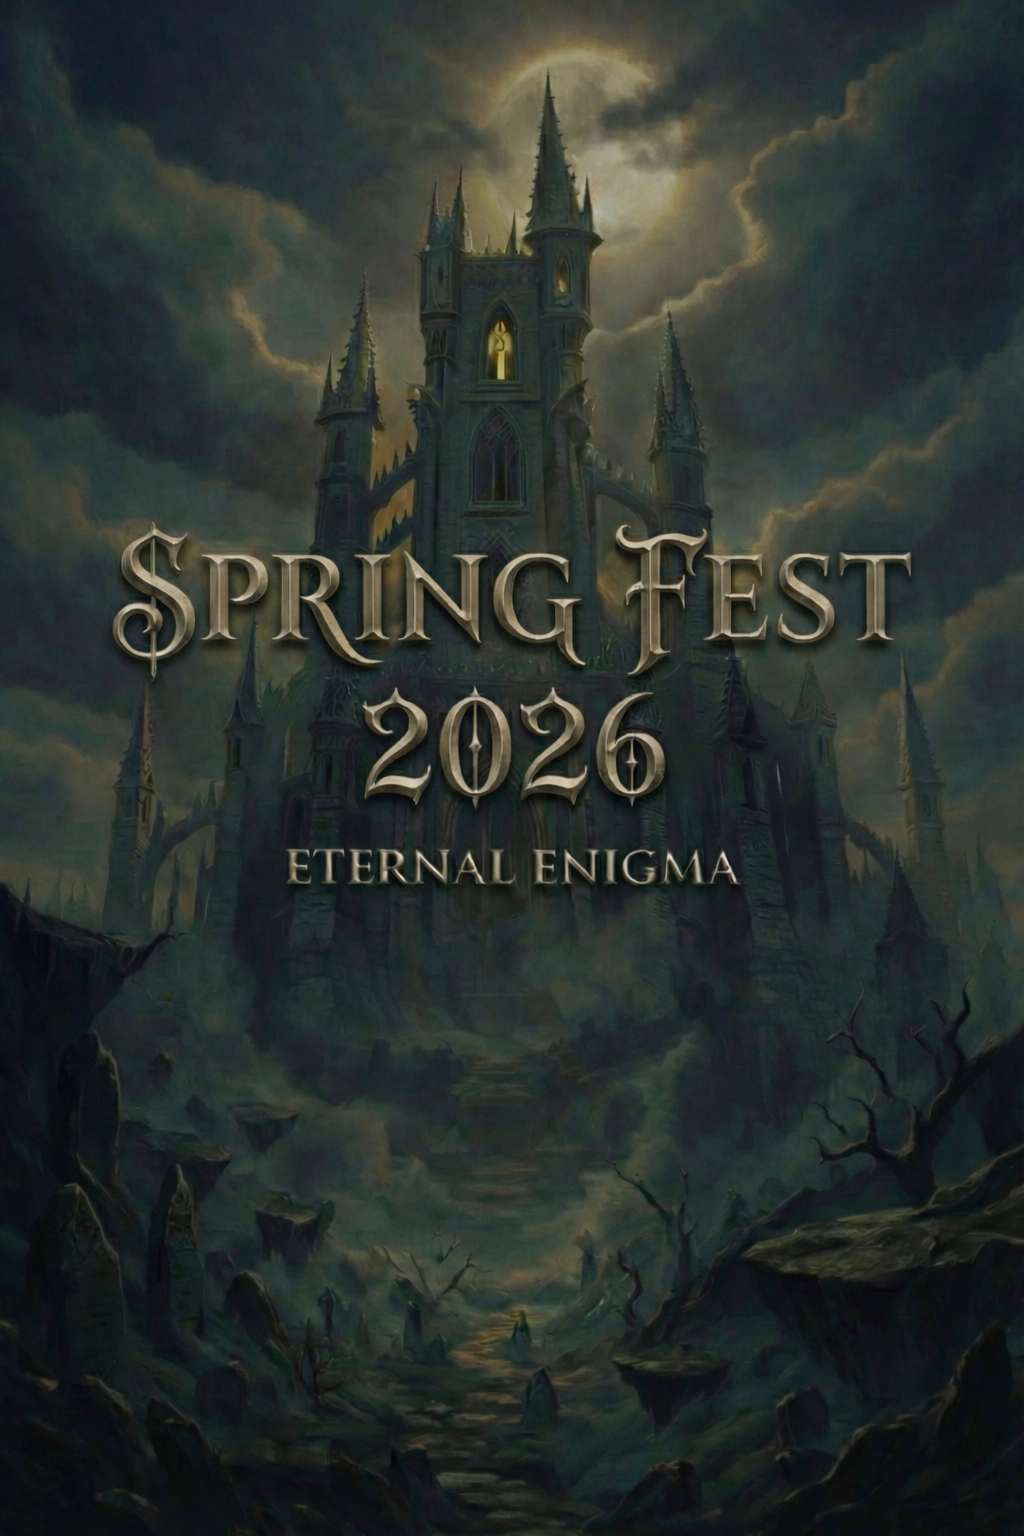
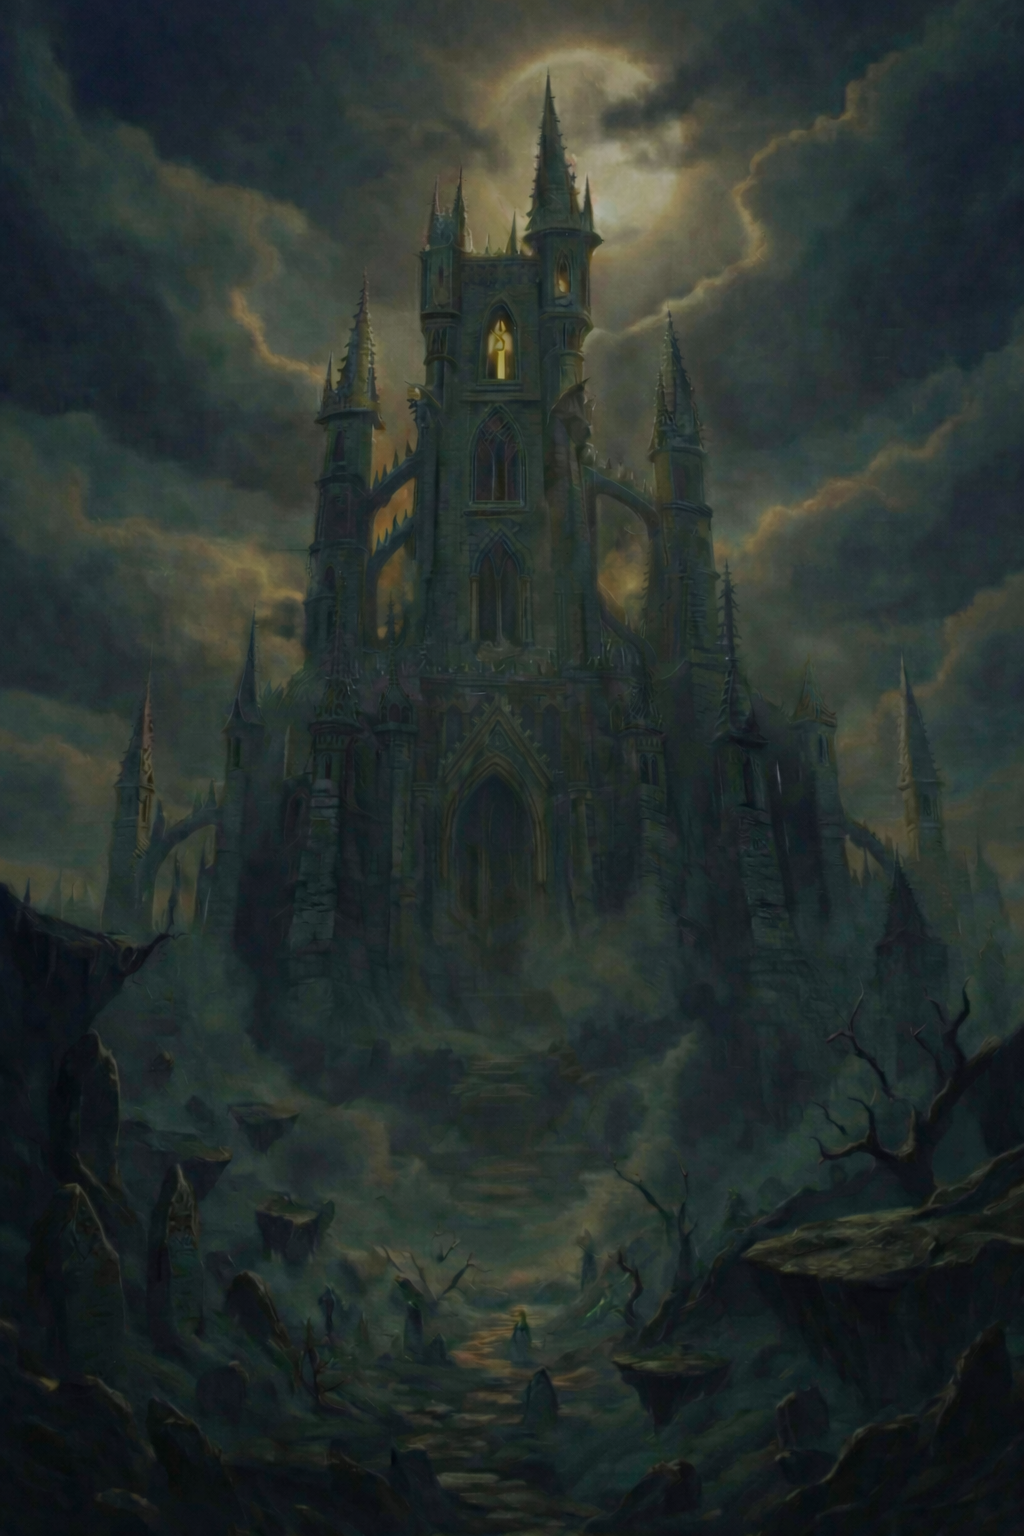
home

Changed region(s): [[0.0938, 0.3438, 0.7188, 0.5938], [0.5938, 0.3438, 0.9062, 0.4375], [0.3438, 0.25, 0.375, 0.2812]]

diff --git a/src/components/Home.jsx b/src/components/Home.jsx
@@ -1,58 +1,199 @@
 import { Link } from "react-router-dom";
+import iitkgpLogo from "../assets/images/iitkgp.webp";
+import springFestLogo from "../assets/images/new1.webp";
+import sfHandLogo from "../assets/images/sf.webp";
+import springFestTextLogo from "../assets/images/ILU1.webp";
+
 
 export default function Home({ backgroundImage }) {
+
+  const isPaid = false;
   return (
-    <div
-      className="min-h-screen w-full flex items-center justify-center bg-center bg-cover relative"
-      style={{
-        backgroundImage: `url(${backgroundImage})`,
-      }}
-    >
-      
- <Link
-  to="/signin"
+ <div
+    className="h-screen w-screen bg-center bg-cover relative overflow-hidden"
+    style={{ backgroundImage: `url(${backgroundImage})` }}
+  >
+
+ {/* Top-left logo */}
+  <div className="absolute top-4 left-4 z-20">
+    <img src={sfHandLogo} className="h-[48px] w-auto opacity-95" />
+  </div>
+
+<div
   className="
-    inline-flex
+    absolute
+    top-4
+    right-4
+    flex
     items-center
-    justify-center
-
-    w-[120px]
-    h-[45px]
-
-    text-[20px]
-    font-semibold
-    tracking-[0.18em]
-    uppercase
-    text-[#e8dcc4]
-
-    bg-gradient-to-b
-    from-[#3b3a35]
-    to-[#1a1916]
-
-    border border-[#6e6a5f]
-    rounded-[10px]
-
-    shadow-[0_10px_30px_rgba(0,0,0,0.6)]
-    backdrop-blur-[2px]
-
-    hover:from-[#4a483f]
-    hover:to-[#23211c]
-    hover:shadow-[0_14px_40px_rgba(0,0,0,0.8)]
-
-    active:scale-[0.97]
-    transition-all duration-300 ease-out
-
-    no-underline
-    bg-transparent
-    outline-none
-    focus:outline-none
-    focus:ring-0
-    select-none
+    gap-3
+    z-20
   "
 >
-  LOG IN
-</Link>
+  <a href="https://www.iitkgp.ac.in/">
+  <img
+    src={iitkgpLogo}
+    alt="IIT Kharagpur"
+    className="
+      h-[44px]
+      w-auto
+      object-contain
+      opacity-90
+    "
+  />
+  </a>
+
+  <img
+    src={springFestLogo}
+    alt="Spring Fest 75"
+    className="
+      h-[44px]
+      w-auto
+      object-contain
+      opacity-90
+    "
+  />
+</div>
+
+
+{/* Center Spring Fest text logo */}
+{/* Center Spring Fest text logo */}
+<div
+  className="
+    absolute
+    top-[38%]
+    left-1/2
+    -translate-x-1/2
+    -translate-y-1/2
+    z-10
+    pointer-events-none
+    scale-[1.75]
+  "
+>
+  <img
+    src={springFestTextLogo}
+    alt="Spring Fest"
+    className="w-[400px] h-auto object-contain opacity-90"
+  />
+</div>
+
+
+
+
+
+
+<div className="absolute inset-0 flex flex-col items-center justify-center gap-[16px] translate-y-[120px]">
+
+
+      {/* LOGIN BUTTON */}
+        <Link
+          to="/signin"
+          className="
+            inline-flex items-center justify-center
+            w-[160px] h-[48px]
+
+            text-[16px]
+            font-semibold
+            tracking-[0.18em]
+            uppercase
+            text-[#e8dcc4]
+
+            bg-gradient-to-b
+            from-[#3b3a35]
+            to-[#1a1916]
+
+            border border-[#6e6a5f]
+            rounded-[10px]
+
+            shadow-[0_10px_30px_rgba(0,0,0,0.6)]
+
+            hover:from-[#4a483f]
+            hover:to-[#23211c]
+            hover:shadow-[0_14px_40px_rgba(0,0,0,0.8)]
+
+            active:scale-[0.97]
+            transition-all duration-300 ease-out
+
+            no-underline
+            outline-none
+            focus:outline-none
+            focus:ring-0
+            select-none
+          "
+        >
+          LOG IN
+        </Link>
+     
+
+      {isPaid ? (
+  <button
+    disabled
+    className="
+      inline-flex items-center justify-center
+      w-[160px] h-[48px]
+
+      text-[14px]
+      font-semibold
+      tracking-[0.22em]
+      uppercase
+      text-[#9fe0b6]
+
+      bg-[#0f2a1d]
+      border border-[#2f6f4f]
+      rounded-[10px]
+
+      cursor-not-allowed
+      opacity-85
+      select-none
+    "
+  >
+    PAID
+  </button>
+) : (
+    <Link
+    to="/payment"
+    className="
+      inline-flex items-center justify-center
+      w-[160px] h-[48px]
+
+      text-[14px]
+      font-semibold
+      tracking-[0.22em]
+      uppercase
+      text-[#eafff2]
+
+      bg-gradient-to-b
+      from-[#1f7a4a]
+      to-[#0e3f28]
+
+      border border-[#2fbf7a]
+      rounded-[10px]
+
+      shadow-[0_10px_30px_rgba(0,0,0,0.6)]
+
+      hover:from-[#2a8f5b]
+      hover:to-[#145a3a]
+      hover:shadow-[0_14px_40px_rgba(0,0,0,0.85)]
+
+      active:scale-[0.97]
+      transition-all duration-300 ease-out
+
+      no-underline
+      outline-none
+      focus:outline-none
+      focus:ring-0
+      select-none
+    "
+  >
+    PAY NOW
+  </Link>
+)}
+
+
 
     </div>
+  </div>
+
+
   );
 }

diff --git a/src/pages/HomePage.jsx b/src/pages/HomePage.jsx
@@ -15,7 +15,7 @@ export default function HomePage() {
   
   <div
   style={{
-    transform: "translateY(clamp(40px, 14vh, 120px))",
+    // transform: "translateY(clamp(40px, 16vh, 120px))",
   }}
 >
   <Home />
